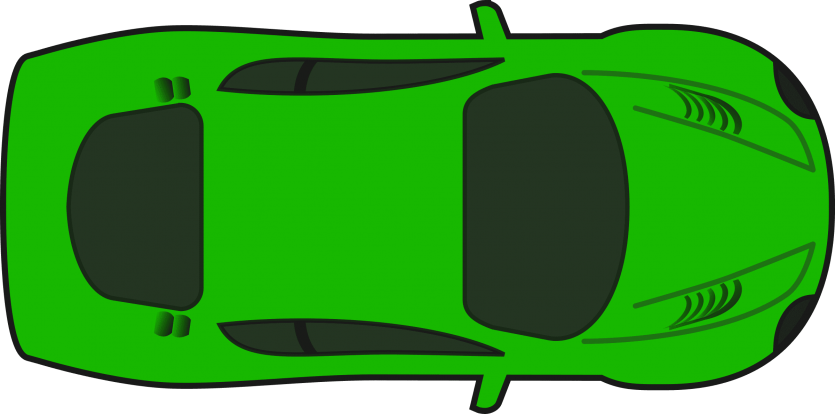
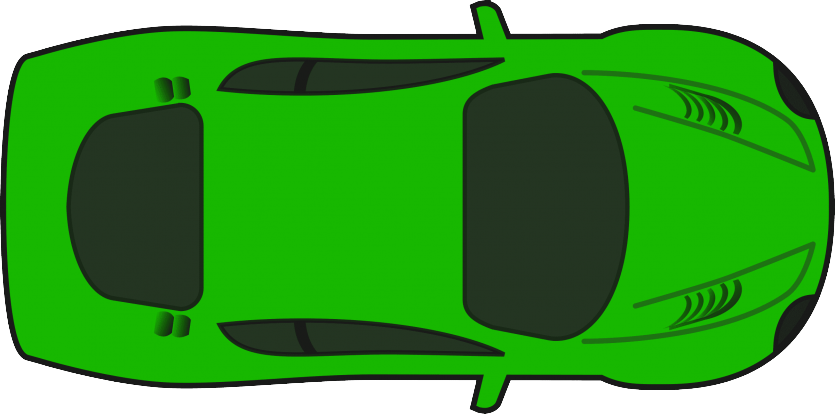
Add image-extracted polygon hitbox for car and use it for precise collision

Changed region(s): [[0.9964, 0.3768, 1.0, 0.4928], [0.9964, 0.5217, 1.0, 0.6087], [0.5605, 0.9855, 0.5916, 1.0]]

diff --git a/web/car.js b/web/car.js
@@ -19,6 +19,7 @@ class Car {
         this.carImgScale = 0.4; // The scale factor used when drawing the car image
         this.actualWidth = width;
         this.actualHeight = height;
+        this.carPolygon = []; // Will be set when car image is loaded
     }
     
     setCarImage(carImg) {
@@ -26,32 +27,100 @@ class Car {
         if (carImg && carImg.complete && carImg.naturalWidth > 0) {
             this.actualWidth = carImg.width * this.carImgScale;
             this.actualHeight = carImg.height * this.carImgScale;
+            this.carPolygon = this.extractCarPolygon(carImg);
             console.log(`Car actual dimensions: ${this.actualWidth} x ${this.actualHeight}`);
         }
     }
 
-    createPolygon() {
-        // Create car rectangle corners using ACTUAL rendered dimensions
-        const points = [];
-        const halfW = this.actualWidth / 2;
-        const halfH = this.actualHeight / 2;
+    extractCarPolygon(carImg) {
+        // Create a temporary canvas to analyze the image
+        const canvas = document.createElement('canvas');
+        const ctx = canvas.getContext('2d');
+        canvas.width = carImg.naturalWidth;
+        canvas.height = carImg.naturalHeight;
+        ctx.drawImage(carImg, 0, 0);
         
-        // Base corners (unrotated)
-        const corners = [
-            { x: -halfW, y: -halfH }, // top-left
-            { x: halfW, y: -halfH },  // top-right
-            { x: halfW, y: halfH },   // bottom-right
-            { x: -halfW, y: halfH }   // bottom-left
-        ];
+        const imageData = ctx.getImageData(0, 0, canvas.width, canvas.height);
+        const data = imageData.data;
         
-        // Rotate each corner around car center
-        for (const corner of corners) {
-            const rotatedX = this.x + corner.x * Math.cos(this.angle) - corner.y * Math.sin(this.angle);
-            const rotatedY = this.y + corner.x * Math.sin(this.angle) + corner.y * Math.cos(this.angle);
-            points.push({ x: rotatedX, y: rotatedY });
+        // Find all boundary pixels (non-transparent pixels adjacent to transparent ones)
+        const boundaryPixels = [];
+        const centerX = canvas.width / 2;
+        const centerY = canvas.height / 2;
+        
+        for (let y = 0; y < canvas.height; y++) {
+            for (let x = 0; x < canvas.width; x++) {
+                const index = (y * canvas.width + x) * 4;
+                if (data[index + 3] > 0) { // non-transparent pixel
+                    // Check if it's a boundary pixel
+                    let isBoundary = false;
+                    for (let dy = -1; dy <= 1 && !isBoundary; dy++) {
+                        for (let dx = -1; dx <= 1 && !isBoundary; dx++) {
+                            if (dx === 0 && dy === 0) continue;
+                            const nx = x + dx;
+                            const ny = y + dy;
+                            if (nx < 0 || ny < 0 || nx >= canvas.width || ny >= canvas.height) {
+                                isBoundary = true;
+                            } else {
+                                const nindex = (ny * canvas.width + nx) * 4;
+                                if (data[nindex + 3] === 0) {
+                                    isBoundary = true;
+                                }
+                            }
+                        }
+                    }
+                    if (isBoundary) {
+                        boundaryPixels.push({ x: x - centerX, y: y - centerY });
+                    }
+                }
+            }
         }
         
-        return points;
+        // Sort boundary pixels by angle from center for proper polygon ordering
+        boundaryPixels.sort((a, b) => {
+            const angleA = Math.atan2(a.y, a.x);
+            const angleB = Math.atan2(b.y, b.x);
+            return angleA - angleB;
+        });
+        
+        // Scale the polygon to match the drawing scale
+        const scale = this.carImgScale;
+        return boundaryPixels.map(p => ({
+            x: p.x * scale,
+            y: p.y * scale
+        }));
+    }
+
+    createPolygon() {
+        // Use the pre-computed car polygon if available, otherwise fall back to rectangle
+        if (this.carPolygon && this.carPolygon.length > 0) {
+            // Rotate the car polygon around the car center
+            return this.carPolygon.map(point => {
+                const rotatedX = this.x + point.x * Math.cos(this.angle) - point.y * Math.sin(this.angle);
+                const rotatedY = this.y + point.x * Math.sin(this.angle) + point.y * Math.cos(this.angle);
+                return { x: rotatedX, y: rotatedY };
+            });
+        } else {
+            // Fallback to rectangle if no car polygon
+            const points = [];
+            const halfW = this.actualWidth / 2;
+            const halfH = this.actualHeight / 2;
+            
+            const corners = [
+                { x: -halfW, y: -halfH },
+                { x: halfW, y: -halfH },
+                { x: halfW, y: halfH },
+                { x: -halfW, y: halfH }
+            ];
+            
+            for (const corner of corners) {
+                const rotatedX = this.x + corner.x * Math.cos(this.angle) - corner.y * Math.sin(this.angle);
+                const rotatedY = this.y + corner.x * Math.sin(this.angle) + corner.y * Math.cos(this.angle);
+                points.push({ x: rotatedX, y: rotatedY });
+            }
+            
+            return points;
+        }
     }
 
     assessDamage(trackBorders) {
